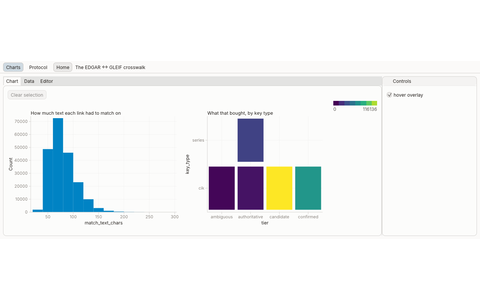
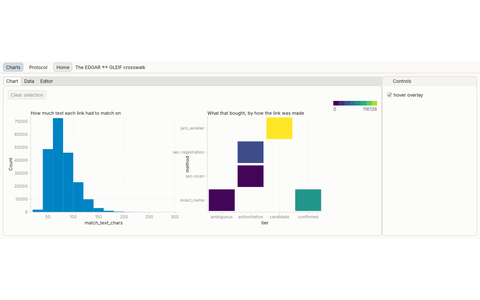
Group the crosswalk grid by link method rather than SEC key type (#158)
The right-hand `cell` grid was `x: tier`, `y: key_type`. The second axis is now
`method`, and the `links` view projects `method` in place of `key_type`.

WHY. `key_type` cannot say much that `tier` is not already saying. In
`examples/protocol/edgar_gleif/models/tier.sql` the probabilistic branch
hardcodes `key_type` to `cik`, so a `series` edge can only reach the table
through the authoritative branch — that value of the axis reports how the row
was built, and it can only ever land opposite the tier the other axis is drawing
anyway.

`method` reports what asserted the edge: a filing, or a fuzzy string comparison.
That is the fact someone consuming a crosswalk needs before deciding what a row
is worth, and the grid now shows it. Queried against the published table (the
figures below were reproduced with duckdb over https rather than taken on
trust): 207,099 rows, five populated (method, tier) pairs —

    jaro_winkler      candidate       116,136
    exact_name        confirmed        60,588
    sec-registration  authoritative    27,232
    exact_name        ambiguous         1,665
    sec-ncen          authoritative     1,478

so fuzzy name matching accounts for 116,136 of the 207,099 published edges and
every one of them sits at candidate tier — surfaced, not asserted. The old grid
drew the same five cells without ever naming that. The regenerated thumbnail's
colour legend tops out at 116136, which is the same number arrived at by a
second route.
[…]

Changed region(s): [[0.375, 0.42, 0.6875, 0.72], [0.4688, 0.36, 0.625, 0.48], [0.375, 0.66, 0.4375, 0.69]]

diff --git a/crates/brightfield-shell/tests/crosswalk_chart.rs b/crates/brightfield-shell/tests/crosswalk_chart.rs
@@ -113,6 +113,11 @@ fn parse_and_analyse(yaml: &str) -> (Spec, SpecAnalysis) {
 /// The two mark bodies below are lifted from the shipped spec and differ in
 /// exactly one thing — the mark family — which is the difference this file
 /// exists to measure.
+///
+/// `tier` and `method` are cut on different strides (`i` against `i / 4`) so
+/// they vary independently. A shared stride would collapse the grid to one cell
+/// per tier, and "the cells account for every row" is a weaker claim when there
+/// are four cells than when there are sixteen.
 fn local_table(rows: u64) -> String {
     format!(
         "data:
@@ -120,7 +125,7 @@ fn local_table(rows: u64) -> String {
     query: |
       SELECT
         (['ambiguous', 'authoritative', 'candidate', 'confirmed'])[(i % 4) + 1] AS tier,
-        (['cik', 'series'])[(i % 2) + 1] AS key_type,
+        (['exact_name', 'jaro_winkler', 'sec-ncen', 'sec-registration'])[(i // 4 % 4) + 1] AS method,
         20 + CAST(hash(i) % 270 AS BIGINT) AS match_text_chars
       FROM range({rows}) AS t(i)
 "
@@ -138,7 +143,7 @@ fn local_aggregating(rows: u64) -> String {
   - mark: cell
     data: {{ from: links }}
     x: tier
-    y: key_type
+    y: method
     fill: {{ count: }}
 width: 640
 height: 400
@@ -337,6 +342,62 @@ fn at_the_crosswalks_row_count_the_scatter_is_sampled_and_the_aggregate_is_not()
 }
 
 // ---------------------------------------------------------------------------
+// What the grid is grouped by
+// ---------------------------------------------------------------------------
+
+/// The grid's second category is the METHOD that made the link, not the type of
+/// the SEC key.
+///
+/// This is an editorial claim about the chart, so it is worth saying why a test
+/// holds it at all. `key_type` and `method` are interchangeable to every other
+/// gate in this file: both are categories, both group, both keep the mark out
+/// of the sampler's reach. Swapping one for the other is invisible to the
+/// machine and changes what the chart says, which is exactly the kind of edit
+/// that needs an assertion rather than a comment.
+///
+/// What separates them is legible in
+/// `examples/protocol/edgar_gleif/models/tier.sql`, the model that writes both
+/// columns. Its probabilistic branch hardcodes `key_type` to `cik`, so a
+/// `series` edge reaches the table only through the authoritative branch: that
+/// value reports how the row was BUILT and can only ever land opposite the tier
+/// the other axis already draws. `method` reports what asserted the edge — a
+/// filing, or a fuzzy string comparison — which is the fact a consumer of a
+/// crosswalk needs in order to decide what a row is worth.
+///
+/// Decided from the shipped bytes, with no data and no network: the grid's
+/// emitted SQL groups by both category columns, so naming them is enough.
+#[test]
+fn the_grid_groups_by_the_method_that_made_the_link() {
+    let (spec, _) = shipped();
+    let groups = brightfield_sql::collect_plot_groups(&spec);
+    let grid_mark = *groups
+        .last()
+        .expect("the shipped chart has plots")
+        .mark_indices
+        .first()
+        .expect("the last plot has a mark");
+    let sql = emit_query_sampled(&spec, grid_mark, None, None, &[], None)
+        .expect("the grid emits")
+        .sql;
+
+    let group_by = sql
+        .split_once("GROUP BY")
+        .expect("the grid aggregates, so it has a GROUP BY")
+        .1;
+    for column in ["method", "tier"] {
+        assert!(
+            group_by.contains(&format!("\"{column}\"")),
+            "the grid does not group by {column}:\n{sql}"
+        );
+    }
+    assert!(
+        !sql.contains("key_type"),
+        "the grid still reads key_type, which the header of \
+         examples/remote/edgar-gleif-crosswalk.yaml says it does not:\n{sql}"
+    );
+}
+
+// ---------------------------------------------------------------------------
 // The filter is a re-query
 // ---------------------------------------------------------------------------
 
@@ -438,7 +499,7 @@ fn a_brush_over_the_local_twin_re_executes_and_the_counts_move() {
       - mark: cell
         data: {{ from: links, filterBy: $band }}
         x: tier
-        y: key_type
+        y: method
         fill: {{ count: }}
     width: 380
     height: 340
